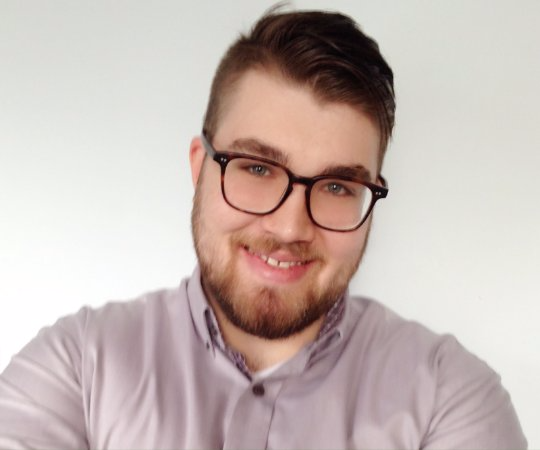
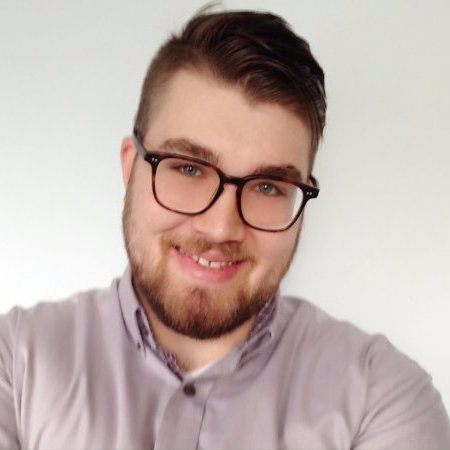
Centered the portrait

diff --git a/content/project/pommerman.md b/content/project/pommerman.md
@@ -8,7 +8,7 @@ draft = false
 tags = []
 
 # Project summary to display on homepage.
-summary = "Pommerman is stylistically similar to Bomberman, the famous game from Nintendo. I am currently in a team competing to create the best multi-agent agents for Pommerman. I will release code after the competition ends."
+summary = "Pommerman is stylistically similar to Bomberman, the famous game from Nintendo. I am currently in a team competing to create the best multi-agent reinforcement learning models for Pommerman. I will release code after the competition ends."
 
 # Optional image to display on homepage.
 image_preview = "project/pommerman/pommerman.gif"
